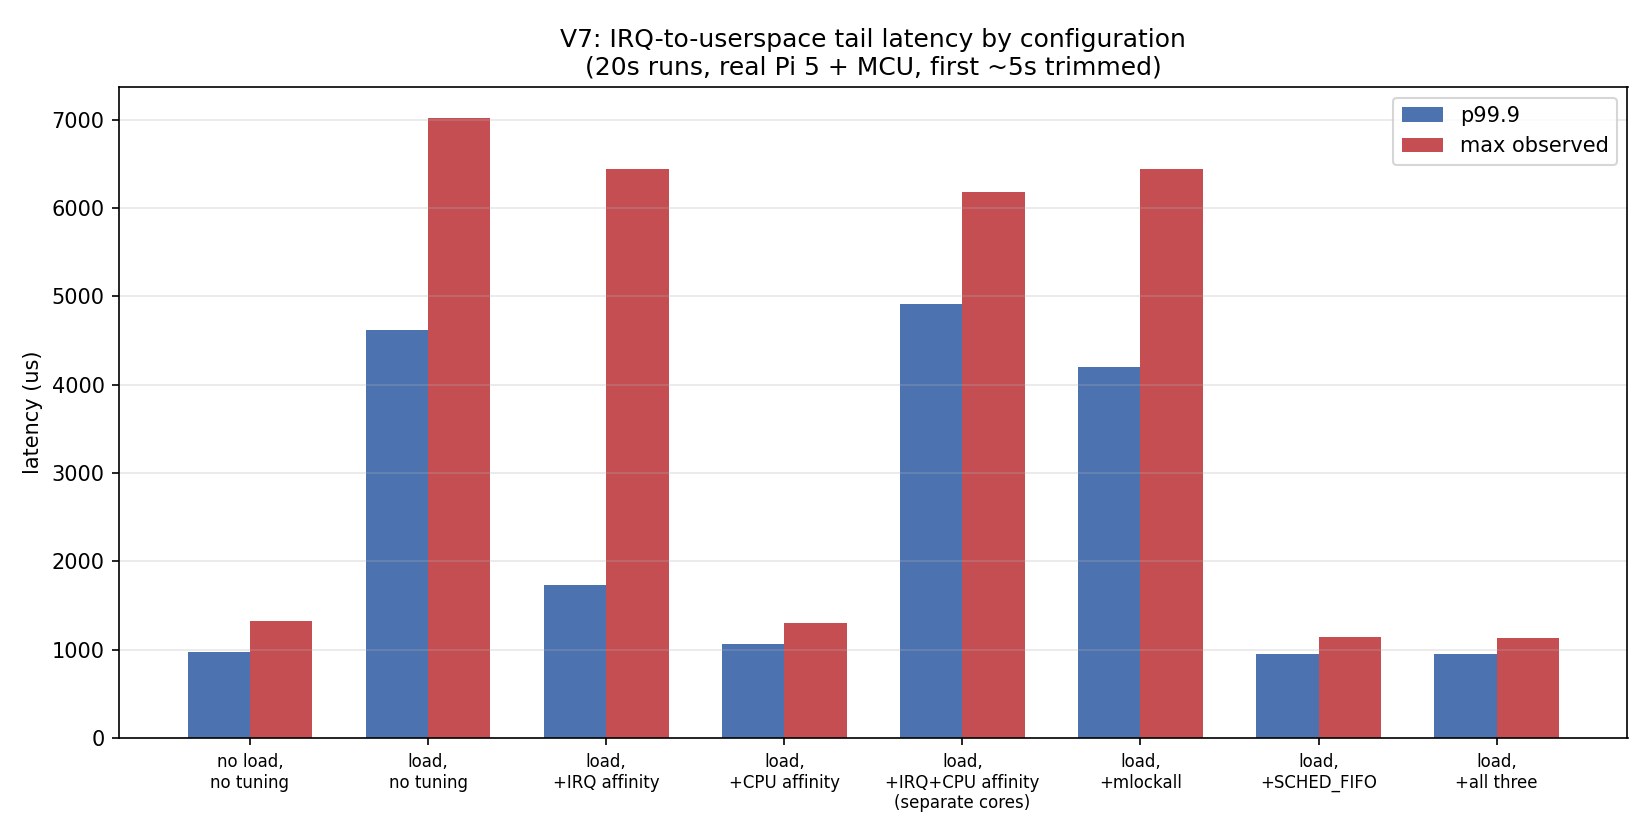
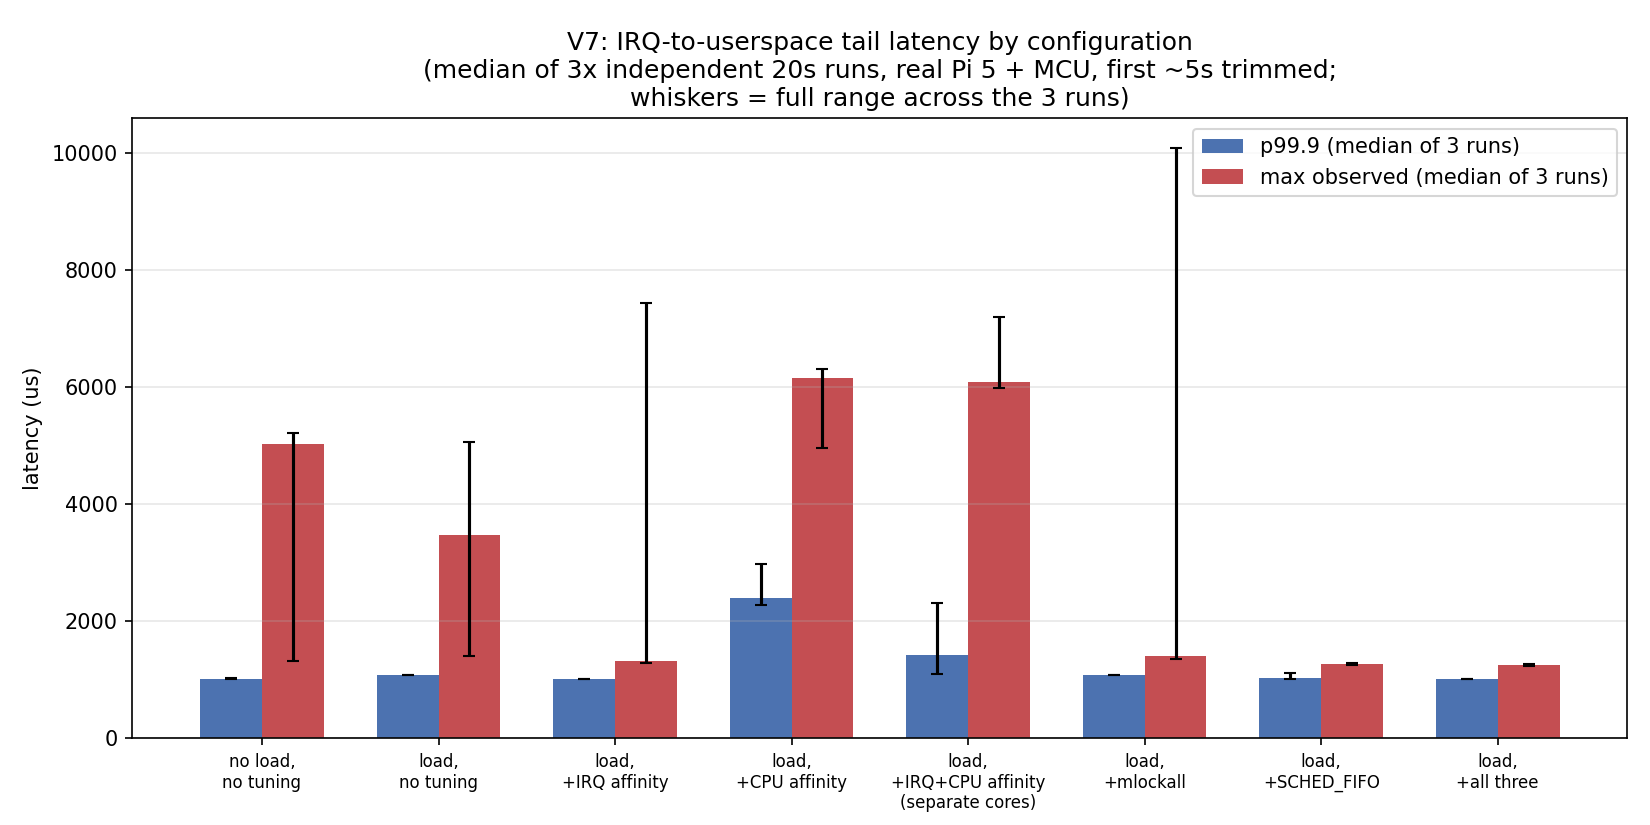
fix: regenerate comparison_bar.png from repeated-measurement data, not the debunked single runs

diff --git a/tools/plot-latency.py b/tools/plot-latency.py
@@ -5,6 +5,15 @@ config (the tail-latency comparison the whole exercise is about), and a
 log-scale latency-over-time scatter to show *where in the run* the tail
 events happen, not just their magnitude.
 
+The bar chart uses the 2026-09-07 repeated-measurement data
+(results/latency/repeat-20260907/, 3x independent 20s runs per config)
+rather than the original single-run CSVs - the single-run numbers were
+shown to overturn on repeat for several configs (see docs/performance.md's
+"Repeat" sections), so a chart built from them would visually contradict
+the document's own corrected conclusions. Each bar is the median across
+the 3 repeats; whiskers show the full min-max range, which is itself part
+of the finding (some configs are far more variable than others).
+
 Usage:
     python3 tools/plot-latency.py
 
@@ -16,28 +25,32 @@ from __future__ import annotations
 
 import csv
 import pathlib
+import statistics
 
 import matplotlib
 matplotlib.use("Agg")
 import matplotlib.pyplot as plt
 
 LATENCY_DIR = pathlib.Path(__file__).resolve().parent.parent / "results" / "latency"
+REPEAT_DIR = LATENCY_DIR / "repeat-20260907"
 
-# (csv stem, display label) - order matters for the bar chart's story.
+# (single-run csv stem, repeat-batch csv stem, display label) - order
+# matters for the bar chart's story. The repeat stem differs from the
+# original single-run stem for three configs (named differently when the
+# repeat batch was collected).
 RUNS = [
-	("baseline_noload", "no load,\nno tuning"),
-	("baseline_load", "load,\nno tuning"),
-	("irq_affinity_load", "load,\n+IRQ affinity"),
-	("affinity_load", "load,\n+CPU affinity"),
-	("irq_and_cpu_affinity_load", "load,\n+IRQ+CPU affinity\n(separate cores)"),
-	("mlock_load", "load,\n+mlockall"),
-	("fifo_load", "load,\n+SCHED_FIFO"),
-	("all_load", "load,\n+all three"),
+	("baseline_noload", "baseline_noload", "no load,\nno tuning"),
+	("baseline_load", "baseline_load", "load,\nno tuning"),
+	("irq_affinity_load", "irq_affinity", "load,\n+IRQ affinity"),
+	("affinity_load", "cpu_affinity", "load,\n+CPU affinity"),
+	("irq_and_cpu_affinity_load", "irq_and_cpu_separate", "load,\n+IRQ+CPU affinity\n(separate cores)"),
+	("mlock_load", "mlock_load", "load,\n+mlockall"),
+	("fifo_load", "fifo_load", "load,\n+SCHED_FIFO"),
+	("all_load", "all_load", "load,\n+all three"),
 ]
 
 
-def load_latencies_us(stem: str) -> list[float]:
-	path = LATENCY_DIR / f"{stem}.csv"
+def load_latencies_us(path: pathlib.Path) -> list[float]:
 	values = []
 	with open(path, newline="") as f:
 		reader = csv.DictReader(f)
@@ -53,21 +66,40 @@ def percentile(sorted_values: list[float], pct: float) -> float:
 	return sorted_values[idx]
 
 
-def main() -> None:
-	data = {stem: load_latencies_us(stem) for stem, _ in RUNS}
+def repeat_stats(repeat_stem: str) -> tuple[float, float, float, float, float]:
+	"""Returns (p999_median, p999_lo, p999_hi, max_median, max_lo, max_hi)
+	across the 3 repeat runs for one config."""
+	p999s, maxes = [], []
+	for run in (1, 2, 3):
+		values = load_latencies_us(REPEAT_DIR / f"{repeat_stem}_run{run}.csv")
+		p999s.append(percentile(sorted(values), 99.9))
+		maxes.append(max(values))
+	return (
+		statistics.median(p999s), min(p999s), max(p999s),
+		statistics.median(maxes), min(maxes), max(maxes),
+	)
 
-	# --- Bar chart: p99.9 and max per config ---
-	labels = [label for _, label in RUNS]
-	p999s = [percentile(sorted(data[stem]), 99.9) for stem, _ in RUNS]
-	maxes = [max(data[stem]) for stem, _ in RUNS]
+
+def main() -> None:
+	# --- Bar chart: median p99.9 and max per config, error bars = range across 3 repeats ---
+	labels = [label for _, _, label in RUNS]
+	stats = [repeat_stats(repeat_stem) for _, repeat_stem, _ in RUNS]
+	p999_med = [s[0] for s in stats]
+	p999_err = [[s[0] - s[1] for s in stats], [s[2] - s[0] for s in stats]]
+	max_med = [s[3] for s in stats]
+	max_err = [[s[3] - s[4] for s in stats], [s[5] - s[3] for s in stats]]
 
 	x = range(len(RUNS))
 	width = 0.35
 	fig, ax = plt.subplots(figsize=(11, 5.5))
-	ax.bar([i - width / 2 for i in x], p999s, width, label="p99.9", color="#4C72B0")
-	ax.bar([i + width / 2 for i in x], maxes, width, label="max observed", color="#C44E52")
+	ax.bar([i - width / 2 for i in x], p999_med, width, yerr=p999_err, capsize=3,
+		   label="p99.9 (median of 3 runs)", color="#4C72B0")
+	ax.bar([i + width / 2 for i in x], max_med, width, yerr=max_err, capsize=3,
+		   label="max observed (median of 3 runs)", color="#C44E52")
 	ax.set_ylabel("latency (us)")
-	ax.set_title("V7: IRQ-to-userspace tail latency by configuration\n(20s runs, real Pi 5 + MCU, first ~5s trimmed)")
+	ax.set_title("V7: IRQ-to-userspace tail latency by configuration\n"
+				 "(median of 3x independent 20s runs, real Pi 5 + MCU, first ~5s trimmed;\n"
+				 "whiskers = full range across the 3 runs)")
 	ax.set_xticks(list(x))
 	ax.set_xticklabels(labels, fontsize=8)
 	ax.legend()
@@ -77,16 +109,19 @@ def main() -> None:
 	fig.savefig(out1, dpi=150)
 	print(f"wrote {out1}")
 
+	data = {stem: load_latencies_us(LATENCY_DIR / f"{stem}.csv") for stem, _, _ in RUNS}
+
 	# --- Timeline scatter: where do the tail events happen? ---
 	fig2, axes = plt.subplots(len(RUNS), 1, figsize=(10, 1.6 * len(RUNS)), sharex=False)
-	for ax2, (stem, label) in zip(axes, RUNS):
+	for ax2, (stem, _, label) in zip(axes, RUNS):
 		values = data[stem]
 		ax2.scatter(range(len(values)), values, s=2, alpha=0.5, color="#4C72B0")
 		ax2.set_yscale("log")
 		ax2.set_ylabel(label.replace("\n", " "), fontsize=7)
 		ax2.tick_params(axis="both", labelsize=7)
 	axes[-1].set_xlabel("sample index (post-trim)")
-	fig2.suptitle("V7: per-sample latency over time, log scale (tail events are sparse spikes)", fontsize=10)
+	fig2.suptitle("V7: per-sample latency over time, log scale (tail events are sparse spikes)\n"
+				  "(one representative 20s run per config - see comparison_bar.png for the repeated-measurement comparison)", fontsize=9)
 	fig2.tight_layout()
 	out2 = LATENCY_DIR / "comparison_timeline.png"
 	fig2.savefig(out2, dpi=150)

diff --git a/docs/performance.md b/docs/performance.md
@@ -55,7 +55,7 @@ transients, raw CSVs in `results/latency/`.
 | Under load, + SCHED_FIFO only (`fifo_load`) | 947.9 | 949.7 | 951.8 | 1146.9 | 0 |
 | Under load, all three combined (`all_load`) | 945.5 | 946.8 | 948.3 | 1136.8 | 0 |
 
-![Bar chart comparing p99.9 and max observed latency across all eight configurations](../results/latency/comparison_bar.png)
+![Bar chart comparing median p99.9 and max observed latency across all eight configurations, 3x repeated per config (see the "Repeat" sections below), whiskers show the full range across repeats](../results/latency/comparison_bar.png)
 
 ![Per-sample latency over time, log scale, one row per configuration](../results/latency/comparison_timeline.png)
 

diff --git a/README.md b/README.md
@@ -51,7 +51,7 @@ real hardware, not simulated.
 
 ## Results
 
-![Scheduler configuration comparison: p99.9 and max latency across load/tuning configs](results/latency/comparison_bar.png)
+![Scheduler configuration comparison: median p99.9 and max latency across load/tuning configs, 3x repeated per config, whiskers show the full range across repeats](results/latency/comparison_bar.png)
 
 ![MCU-to-hard-IRQ latency: PA9 (sample produced) and GPIO27 (hard-IRQ handler) captured on one logic analyzer clock](results/latency/mcu_to_hard_irq_zoomed.png)
 
